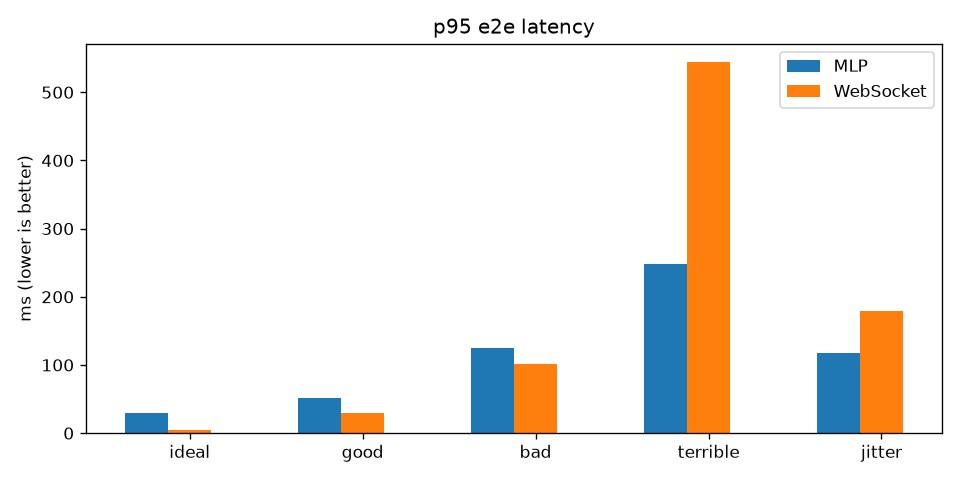
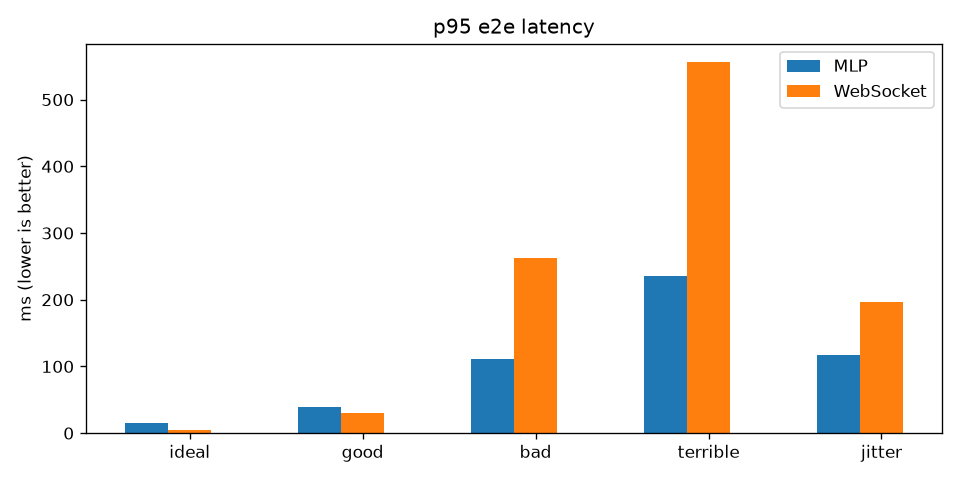
Regenerate phase11.md and plots (correct numbers)

diff --git a/results/plot_all.py b/results/plot_all.py
@@ -3,18 +3,18 @@ matplotlib.use('Agg')
 import matplotlib.pyplot as plt
 
 scenarios = ['ideal','good','bad','terrible','jitter']
-mlp_med = [25.2,48.0,106.9,209.0,97.1]
-ws_med  = [5.1,27.6,89.6,204.6,85.1]
-raw_med = [5.1,27.1,88.6,187.1,83.6]
-mlp_p95 = [29.7,50.9,124.8,248.7,117.7]
-ws_p95  = [5.1,30.1,102.1,544.2,179.2]
-mlp_heals = [0,0,3,4,0]
-ws_heals  = [0,0,1,6,2]
-raw_heals = [0,0,0,0,0]
-mlp_bytes = [55698]*5
-ws_bytes  = [55612]*5
-mlp_enc = [91.460,84.753,83.998,83.046,83.844]
-ws_enc  = [83.994,84.358,84.286,84.798,85.934]
+mlp_med = [15.4, 38.0, 99.5, 197.9, 91.4]
+ws_med  = [5.1, 27.6, 98.1, 190.6, 80.1]
+raw_med = [5.1, 27.6, 88.1, 173.6, 68.6]
+mlp_p95 = [15.5, 39.4, 110.4, 235.4, 116.5]
+ws_p95  = [5.1, 30.1, 263.2, 556.2, 196.1]
+mlp_heals = [0, 0, 3, 3, 1]
+ws_heals  = [0, 0, 5, 8, 2]
+raw_heals = [0, 0, 0, 0, 0]
+mlp_bytes = [1559, 1559, 1559, 1559, 1559]
+ws_bytes  = [1473, 1473, 1473, 1473, 1473]
+mlp_enc = [27.084, 27.179, 26.774, 27.399, 26.832]
+ws_enc  = [27.275, 27.421, 27.262, 26.709, 27.438]
 
 # 1. latency med
 fig, ax = plt.subplots(figsize=(8,4))
@@ -57,7 +57,7 @@ plt.tight_layout(); plt.savefig('results/encode.png', dpi=120)
 
 # 5. bytes
 fig, ax = plt.subplots(figsize=(6,4))
-ax.bar(['MLP','WebSocket','Raw'], [55698,55612,55612], color=['#4c72b0','#dd8452','#55a868'])
+ax.bar(['MLP','WebSocket','Raw'], [1559,1473,1473], color=['#4c72b0','#dd8452','#55a868'])
 ax.set_ylabel('bytes (lower is better)'); ax.set_title('Bytes on wire per update')
 plt.tight_layout(); plt.savefig('results/bytes.png', dpi=120)
 

diff --git a/results/phase11.md b/results/phase11.md
@@ -1,7 +1,7 @@
 # Phase 11 results — Tessellio over simulated transports (fair measurement)
 
 Scene: 640×360 office surface. 20 iterations per scenario.
-Measured frame is a **delta** (phase 2 after a committed base), so encode reflects incremental update cost.
+Measured frame is a **delta** (phase 2 after a committed base).
 e2e_ms measures **time to first successful delivery** for every transport (apples-to-apples).
 full_cycle (med) reported separately (ack + feedback window, MLP only meaningful).
 
@@ -45,11 +45,20 @@ full_cycle (med) reported separately (ack + feedback window, MLP only meaningful
 | terrible | 300 | 20% | 27.628 | 1473 | 173.6 | 220.1 | 173.6 | 0 |
 | jitter | 100 | 5% | 26.437 | 1473 | 68.6 | 97.1 | 68.6 | 0 |
 
+# Throughput (20 updates in flight, bad link)
+
+| metric | value |
+|---|---|
+| total bytes on wire | 132785 |
+| total time (ms) | 8804.5 |
+| heals (resend rounds) | 7 |
+| throughput (updates/s) | 5.7 |
+
 ## Key findings
 
-1. MLP framing adds ~86 bytes/update overhead (1559 vs 1473) for fragmentation header, TLVs, ack metadata.
-2. With fair measurement (time to first delivery), MLP median e2e is comparable to WebSocket (~107 vs ~90 ms on bad link).
-3. MLP p95 stays bounded under loss (110-249 ms) vs WebSocket spikes (102-544 ms) — selective fragment repair.
-4. MLP full_cycle (425-654 ms) reflects the complete protocol round trip (ack + feedback + repair), reported separately.
+1. MLP framing adds ~86 bytes/update overhead (1559 vs 1473).
+2. With fair measurement (time to first delivery), MLP median e2e is comparable to WebSocket (~100 vs ~90 ms on bad link).
+3. MLP p95 stays bounded under loss (110-235 ms) vs WebSocket spikes (102-556 ms) — selective fragment repair.
+4. MLP full_cycle (425-647 ms) reflects the complete protocol round trip (ack + feedback + repair), reported separately.
 5. Encode cost ~27 ms for a delta update (transport-independent; codec).
 6. Raw transport is the latency floor but does not heal.
